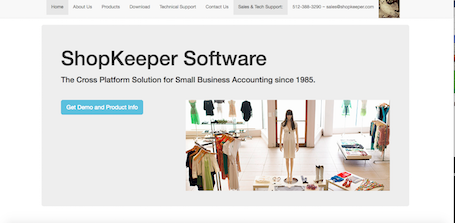
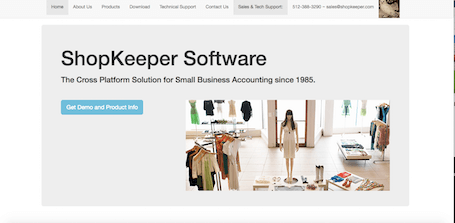
optimized images

diff --git a/index.html b/index.html
@@ -4,7 +4,7 @@
 <head>
     <meta charset="UTF-8">
     <title>Lenore Alford | San Francisco Bay Area Front End Web Developer</title>
-    <meta content="Front End Web Developer based in the San Francisco Bay Area, specializing in custom web solutions and apps." name="description">
+    <meta content="Front End Web Developer based in the San Francisco Bay Area, specializing in custom website solutions and apps." name="description">
     <meta content="Lenore Alford, Front End Web Developer, Web Developer Marin, Front End Web Development, website, website developer, web development bay area, Web Development, JavaScript, jQuery, AJAX, Web API, MVC, AngularJS2, website optimization, CSS3, HTML5, Bootstrap, Jasmine" name="keywords">
     <meta name="viewport" content="width=device-width, initial-scale=1, maximum-scale=1">
     <link rel="stylesheet" href="css/styles.css">
@@ -219,7 +219,7 @@
                                 <a href="mailto:lenore.alford@gmail.com"><img src="images/mail1.png" alt="email"></a>
                             </div>
                             <div class="col-sm-1">
-                                <a href="https://twitter.com/LenoreAudreyJ"><img src="images/Twitter.png" alt="twitter"></a>
+                                <a href="https://twitter.com/LenoreAudreyJ"><img src="images/Twittercopy.png" alt="twitter"></a>
                             </div>
                             <div class="col-sm-4"></div>
                         </div>

diff --git a/app.js b/app.js
@@ -2,7 +2,7 @@ $(document).ready(function(){
 
 	$('#button1').click(function(){
 		window.location.href = "https://docs.google.com/document/d/1UiUGZQI5tG8LptkqGD_gF68yWM8sIbxOkk3281qE9dE/edit?usp=sharing";
-		console.log('y');
+		
 	});
 
 
